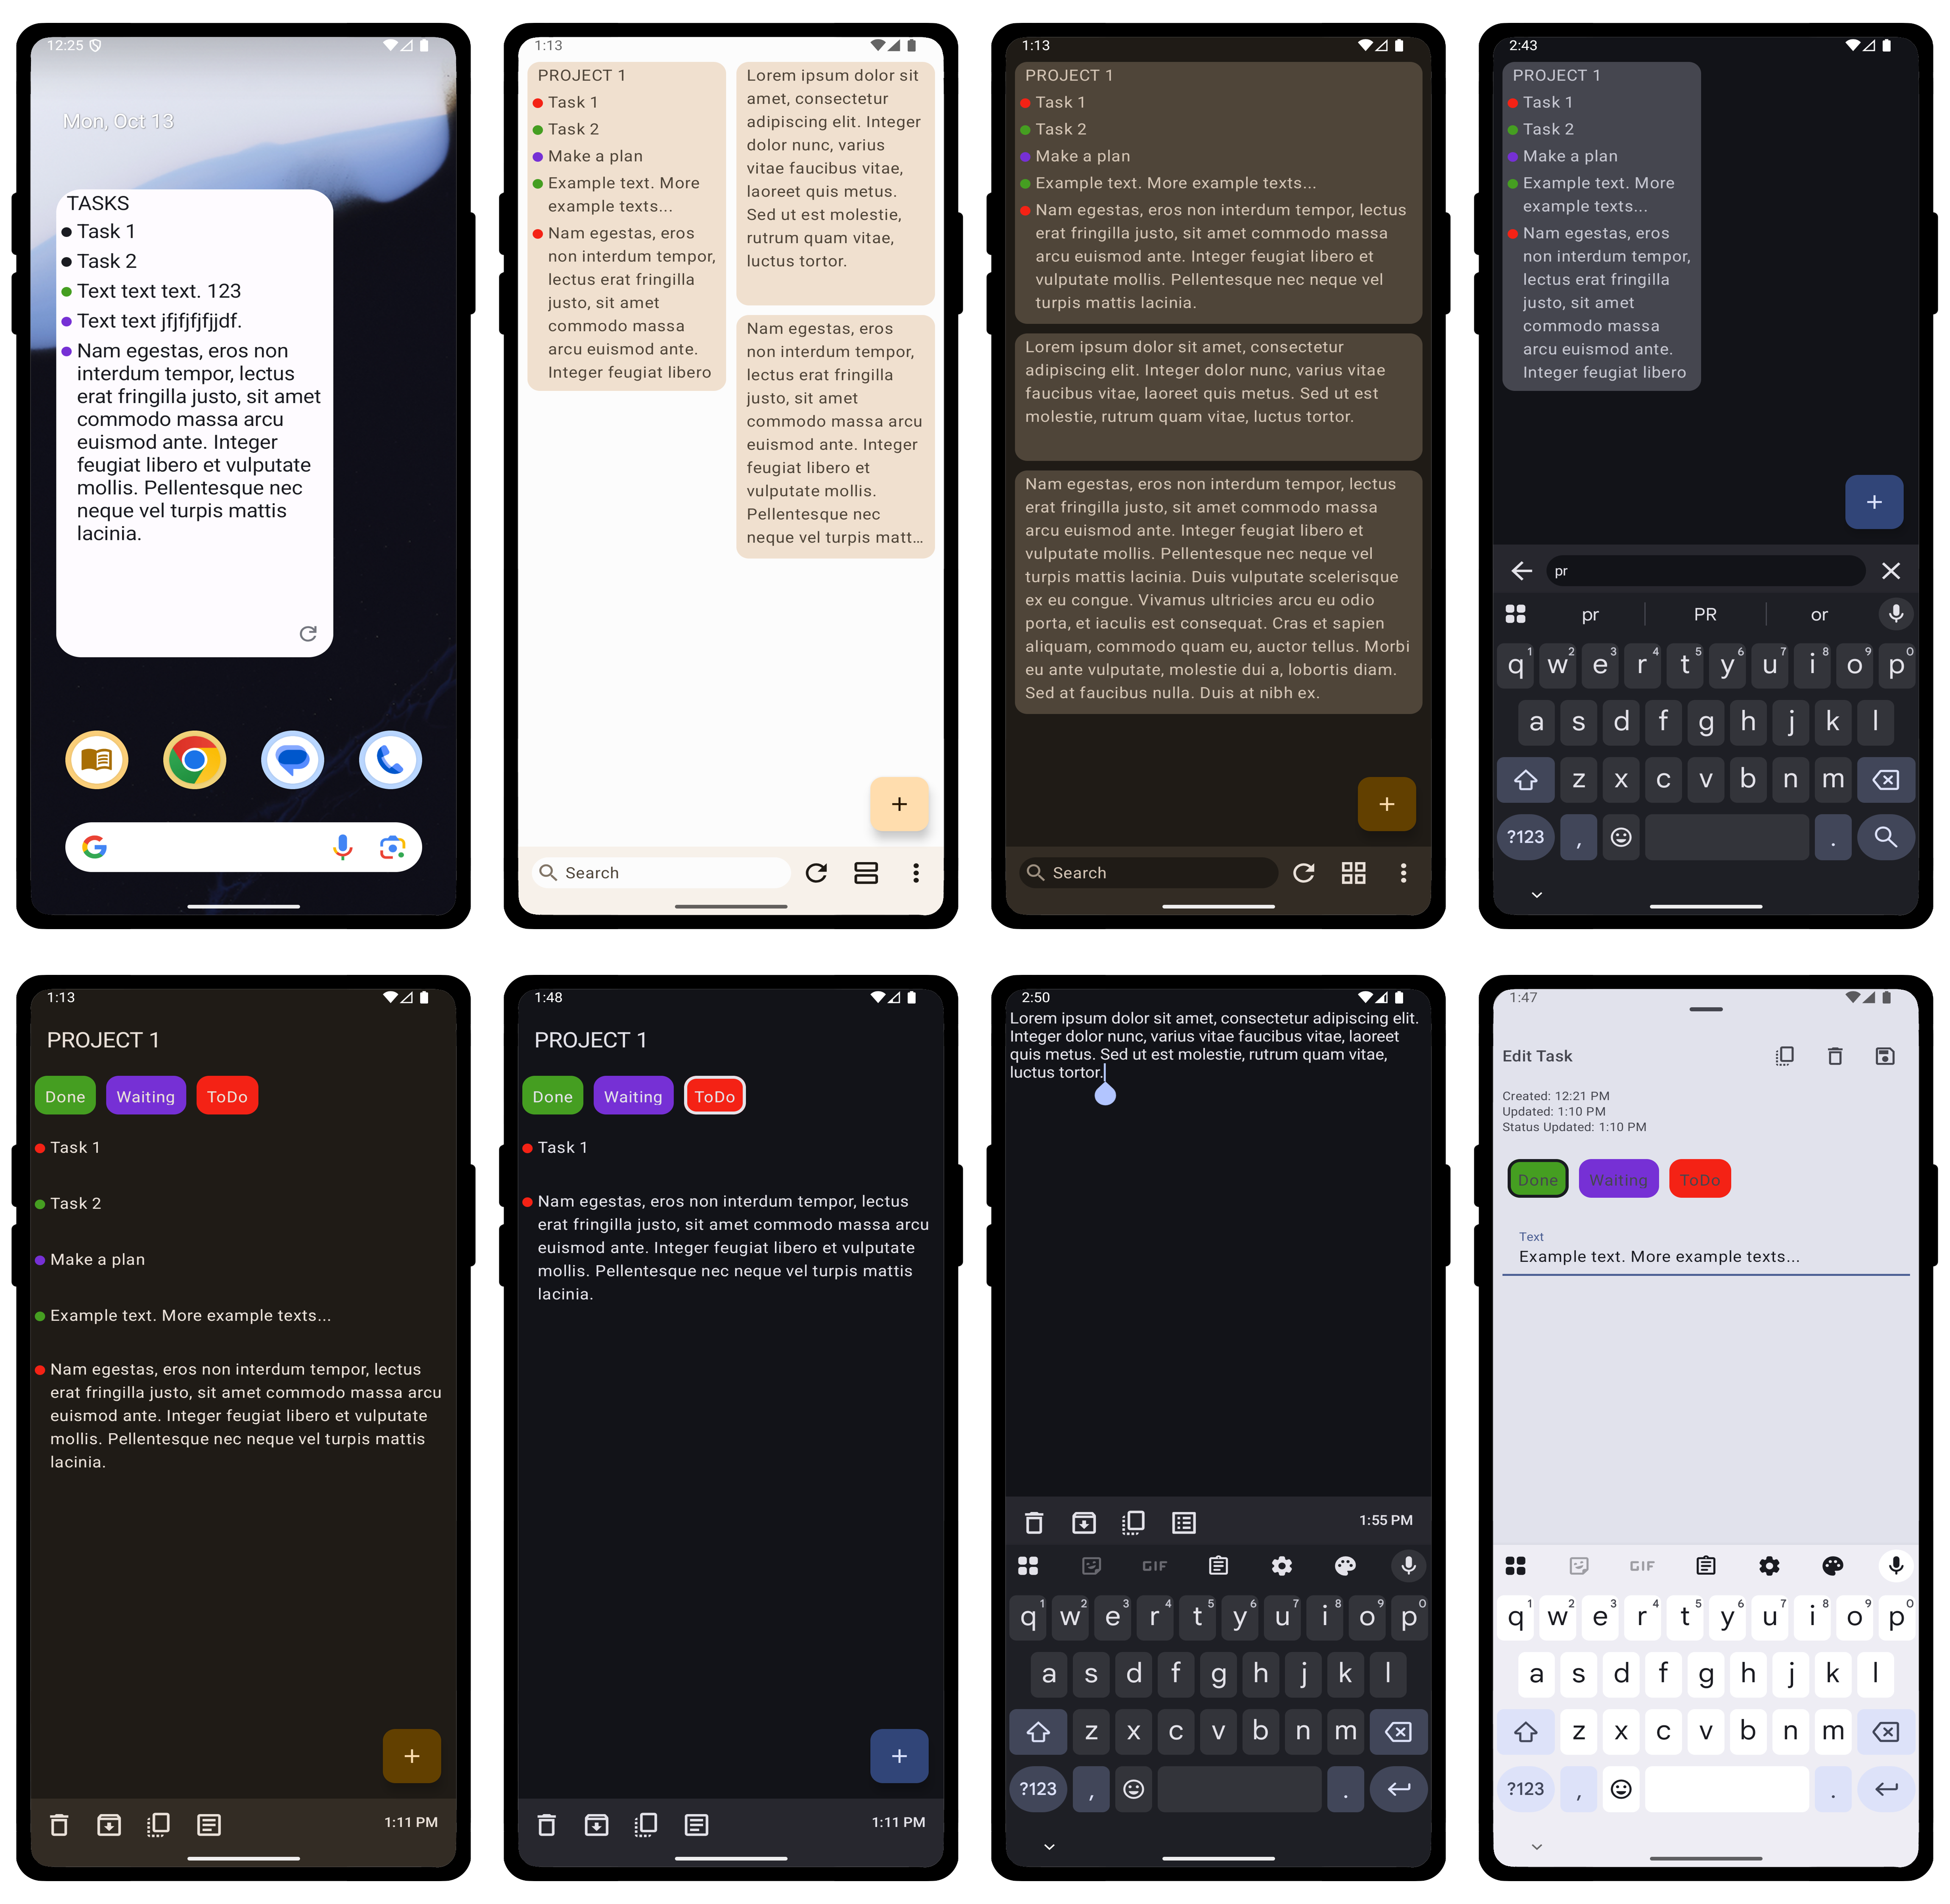
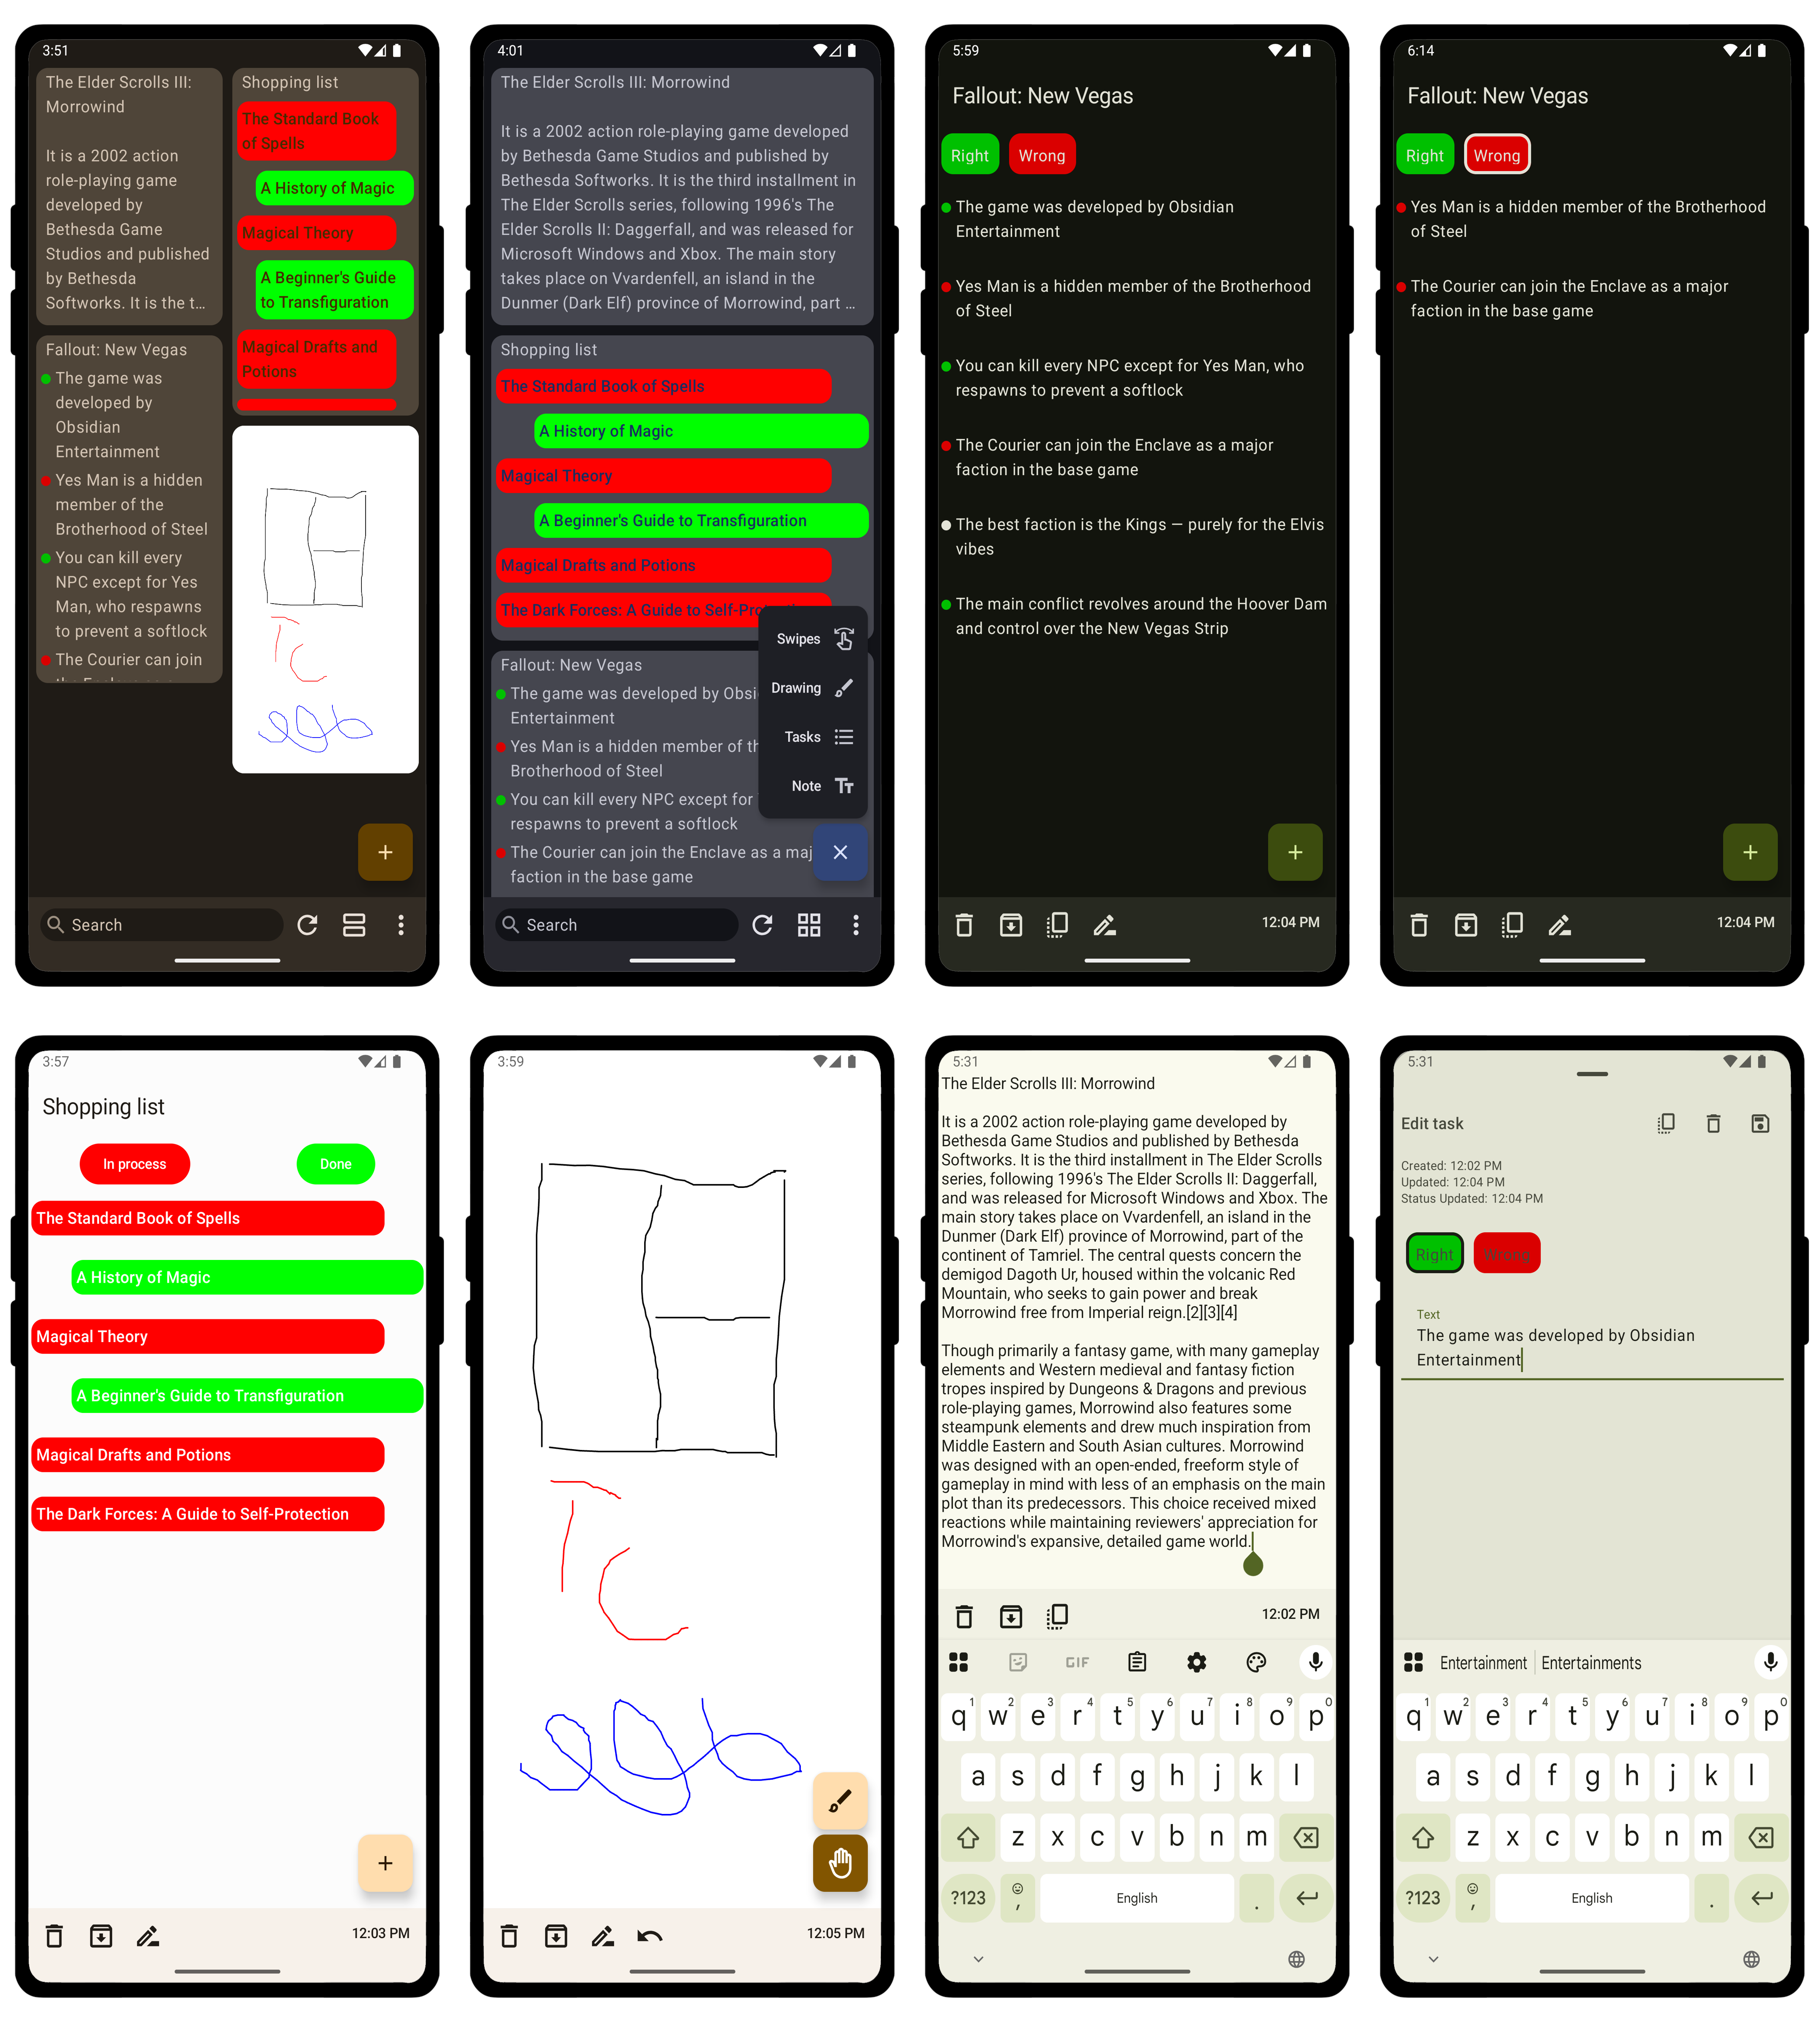
Improve: tests, readme. Add small fix

diff --git a/composeApp/src/commonMain/kotlin/com/yurhel/alex/anotes/ui/screen_board/BoardViewModel.kt b/composeApp/src/commonMain/kotlin/com/yurhel/alex/anotes/ui/screen_board/BoardViewModel.kt
@@ -93,7 +93,7 @@ class BoardViewModel(val vm: MainViewModel) : ViewModel() {
             // Undo local
             (1..10).forEach {
                 try {
-                    localDraw.removeLast()
+                    localDraw.removeAt(localDraw.lastIndex)
                 } catch (_: Exception) {}
             }
             // Undo in DB

diff --git a/README.md b/README.md
@@ -7,10 +7,12 @@ src="https://github.com/lestec-al/a-notes/raw/main/screenshots_android.png"/>
 src="https://github.com/lestec-al/a-notes/raw/main/screenshots_desktop.png"/>
 
 ## Features
-- Notes
-- Ordered (with statuses) notes
+#### 4 types of notes
+- Normal notes
+- Ordered (with statuses) notes (tasks)
 - Drawings
-- Swipe-to-Organize Notes (a two-column view where you can swipe notes left or right to sort them into categories, like "In Process" and "Done." Each side has a distinct color that you can customize for easy visual recognition)
+- Swipe-to-Organize notes (a two-column view where you can swipe notes left or right to sort them into categories, like "In Process" and "Done." Each side has a distinct color that you can customize for easy visual recognition)
+#### Extras
 - Cloud sync of data
 - One note widget (for Android)
 - Light & Dark theme of interface
@@ -27,4 +29,4 @@ src="https://github.com/lestec-al/a-notes/raw/main/screenshots_desktop.png"/>
 ## Other
 - This is the Kotlin Multiplatform Project - one project for multiple OSes (Android & PC). Most of the UI and business logic are shared
 - If you want to create your own executables, to enable sync, you need to create your own Google Cloud Project and create an OAuth credentials. For the Desktop version, download the credential, rename it to "auth.json" and move to "composeApp/src/desktopMain/resources/"
-- I am trying to follow recommendations from [Android App Architecture](https://developer.android.com/topic/architecture#recommended-app-arch) while building this apps
+- While creating that app, [Android App Architecture](https://developer.android.com/topic/architecture#recommended-app-arch) recommendations are used